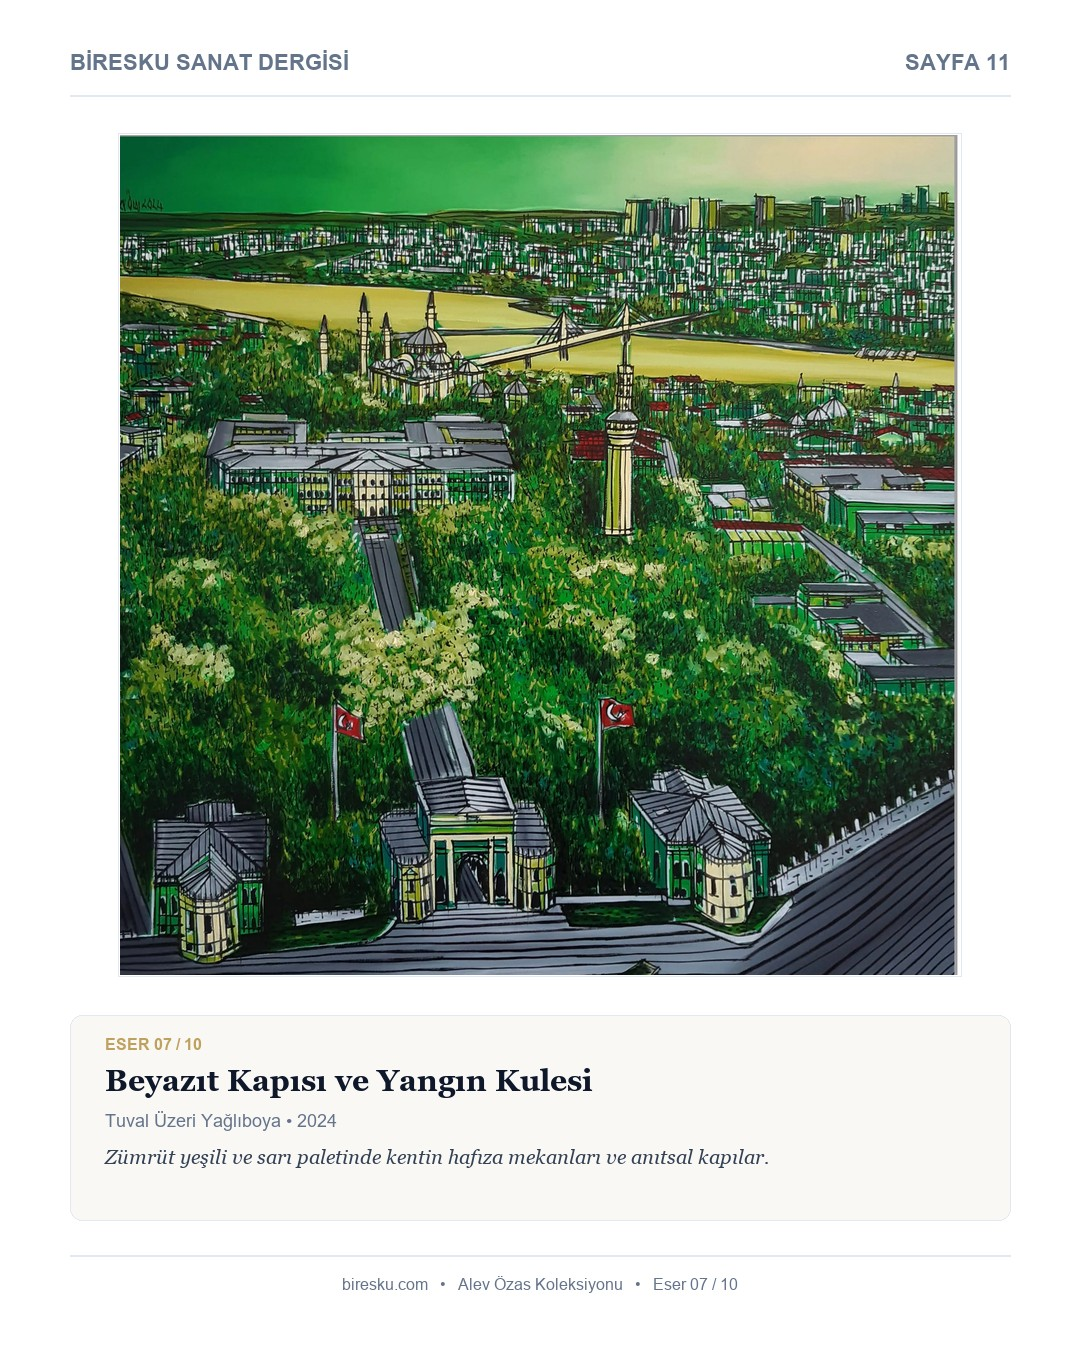
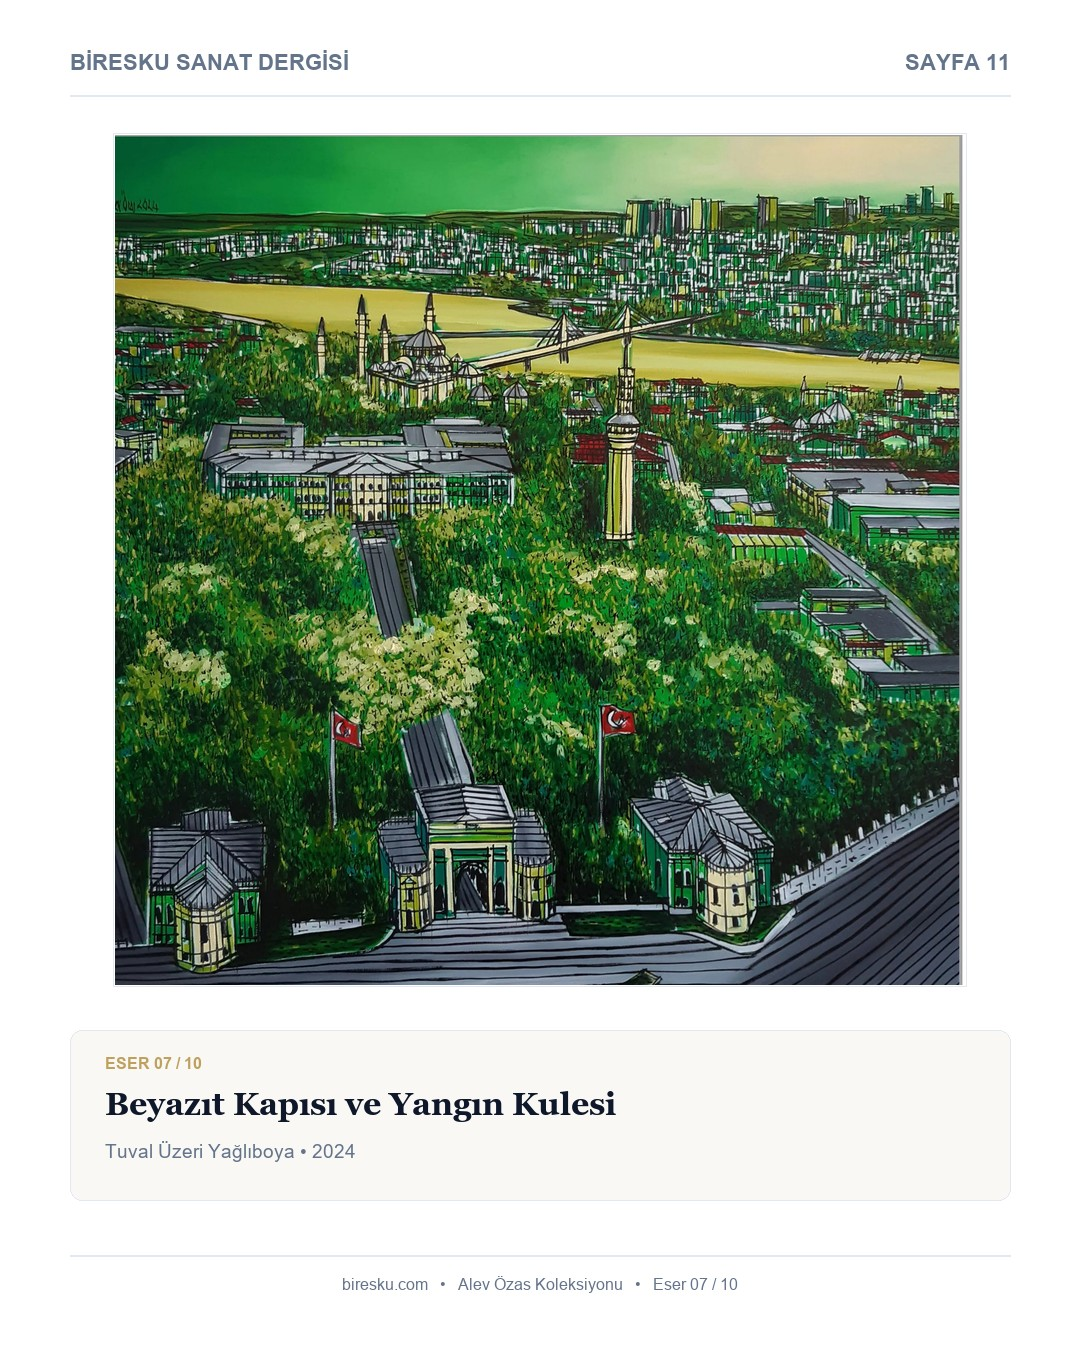
fix(artworks): remove descriptive subtitles under paintings on pages 5-14 and web gallery

Changed region(s): [[0.0917, 0.0933, 0.9167, 0.8711]]

diff --git a/dergi/sanatcilar/alev-ozas/index.html b/dergi/sanatcilar/alev-ozas/index.html
@@ -756,7 +756,6 @@
           <div class="artwork-card-info">
             <div class="artwork-card-title">Galata Kulesi ve Boğaz Panoraması</div>
             <div class="artwork-card-meta">Tuval Üzeri Yağlıboya • 2024</div>
-            <div class="artwork-card-desc">Kentin kalbinden Boğaz'a açılan turkuaz gökyüzü ve taşist fırça dansı.</div>
           </div>
         </div>
 
@@ -768,7 +767,6 @@
           <div class="artwork-card-info">
             <div class="artwork-card-title">Haliç ve Topkapı Sarayı</div>
             <div class="artwork-card-meta">Tuval Üzeri Yağlıboya • 2023</div>
-            <div class="artwork-card-desc">Grisaille ve monokrom çizgilerle tarihin derin yankısı ve çizgisel ritim.</div>
           </div>
         </div>
 
@@ -780,7 +778,6 @@
           <div class="artwork-card-info">
             <div class="artwork-card-title">Süleymaniye ve Galata Kulesi</div>
             <div class="artwork-card-meta">Tuval Üzeri Yağlıboya • 2023</div>
-            <div class="artwork-card-desc">Taşist renk armonisiyle kentin iki yakasının ebedi ve kutsal diyaloğu.</div>
           </div>
         </div>
 
@@ -792,7 +789,6 @@
           <div class="artwork-card-info">
             <div class="artwork-card-title">Ayasofya ve Sultanahmet — Kızıl Alacakaranlık</div>
             <div class="artwork-card-meta">Tuval Üzeri Yağlıboya • 2023</div>
-            <div class="artwork-card-desc">Gün batımının kızıl ateşinde kubbelerin görkemi ve mistik gölgeler.</div>
           </div>
         </div>
 
@@ -804,7 +800,6 @@
           <div class="artwork-card-info">
             <div class="artwork-card-title">Gece Mavisi Altında Galata ve Sultanahmet</div>
             <div class="artwork-card-meta">Tuval Üzeri Yağlıboya • 2024</div>
-            <div class="artwork-card-desc">Dolunay ışığının Boğaz sularında titreşen altın ışıltıları ve gece melodisi.</div>
           </div>
         </div>
 
@@ -816,7 +811,6 @@
           <div class="artwork-card-info">
             <div class="artwork-card-title">Tarihi Yarımada ve Ayasofya</div>
             <div class="artwork-card-meta">Tuval Üzeri Yağlıboya • 2021</div>
-            <div class="artwork-card-desc">Kehribar ve altın tonlarında asırların mimari mirası ve görkemli silüet.</div>
           </div>
         </div>
 
@@ -828,7 +822,6 @@
           <div class="artwork-card-info">
             <div class="artwork-card-title">Beyazıt Kapısı ve Yangın Kulesi</div>
             <div class="artwork-card-meta">Tuval Üzeri Yağlıboya • 2024</div>
-            <div class="artwork-card-desc">Zümrüt yeşili ve sarı paletinde kentin hafıza mekanları ve anıtsal kapılar.</div>
           </div>
         </div>
 
@@ -840,7 +833,6 @@
           <div class="artwork-card-info">
             <div class="artwork-card-title">Sultanahmet Meydanı ve Dikilitaş</div>
             <div class="artwork-card-meta">Tuval Üzeri Yağlıboya • 2024</div>
-            <div class="artwork-card-desc">Tarihin katmanlarını kuşbakışı ritmik kompozisyonla selamlayan taşizm.</div>
           </div>
         </div>
 
@@ -852,7 +844,6 @@
           <div class="artwork-card-info">
             <div class="artwork-card-title">Galata Kulesi ve Haliç — Magenta Akşamı</div>
             <div class="artwork-card-meta">Tuval Üzeri Yağlıboya • 2024</div>
-            <div class="artwork-card-desc">Lila ve magenta tonlarının şiirsel uyumuyla kente çöken nostaljik akşam.</div>
           </div>
         </div>
 
@@ -864,7 +855,6 @@
           <div class="artwork-card-info">
             <div class="artwork-card-title">Kobalt ve Gece Mavisi Galata Panoraması</div>
             <div class="artwork-card-meta">Tuval Üzeri Yağlıboya • 2024</div>
-            <div class="artwork-card-desc">Koyu lacivert gök kubbe altında ışıldayan kadim Galata ve Boğaziçi senfonisi.</div>
           </div>
         </div>
       </div>
